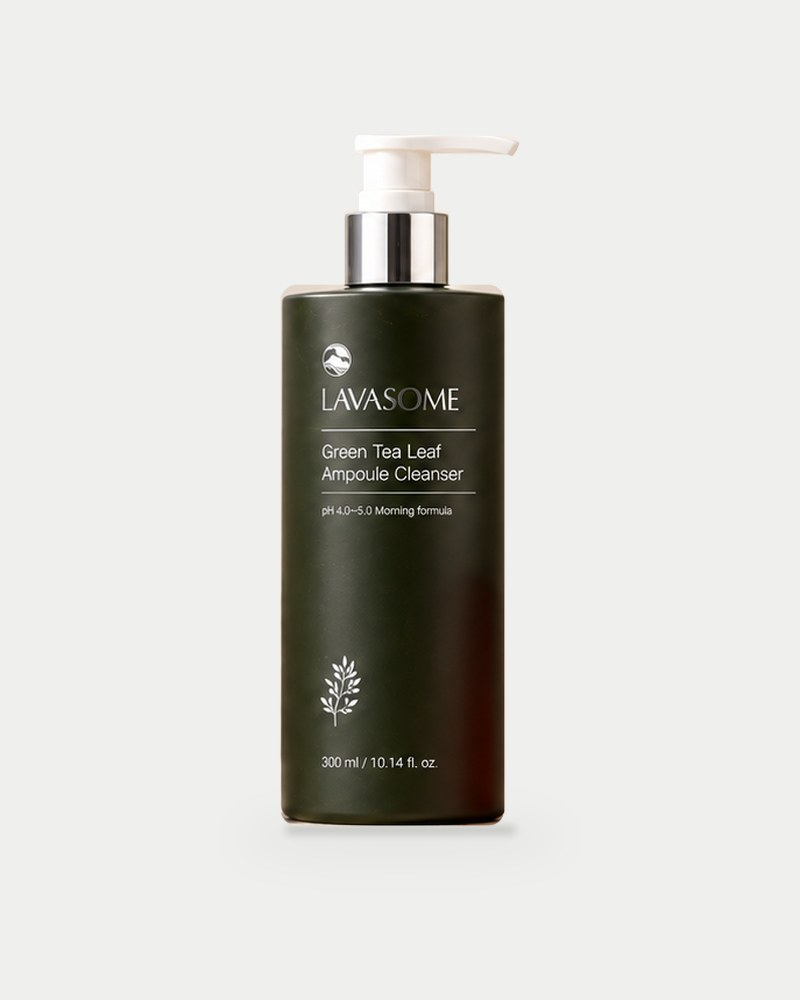
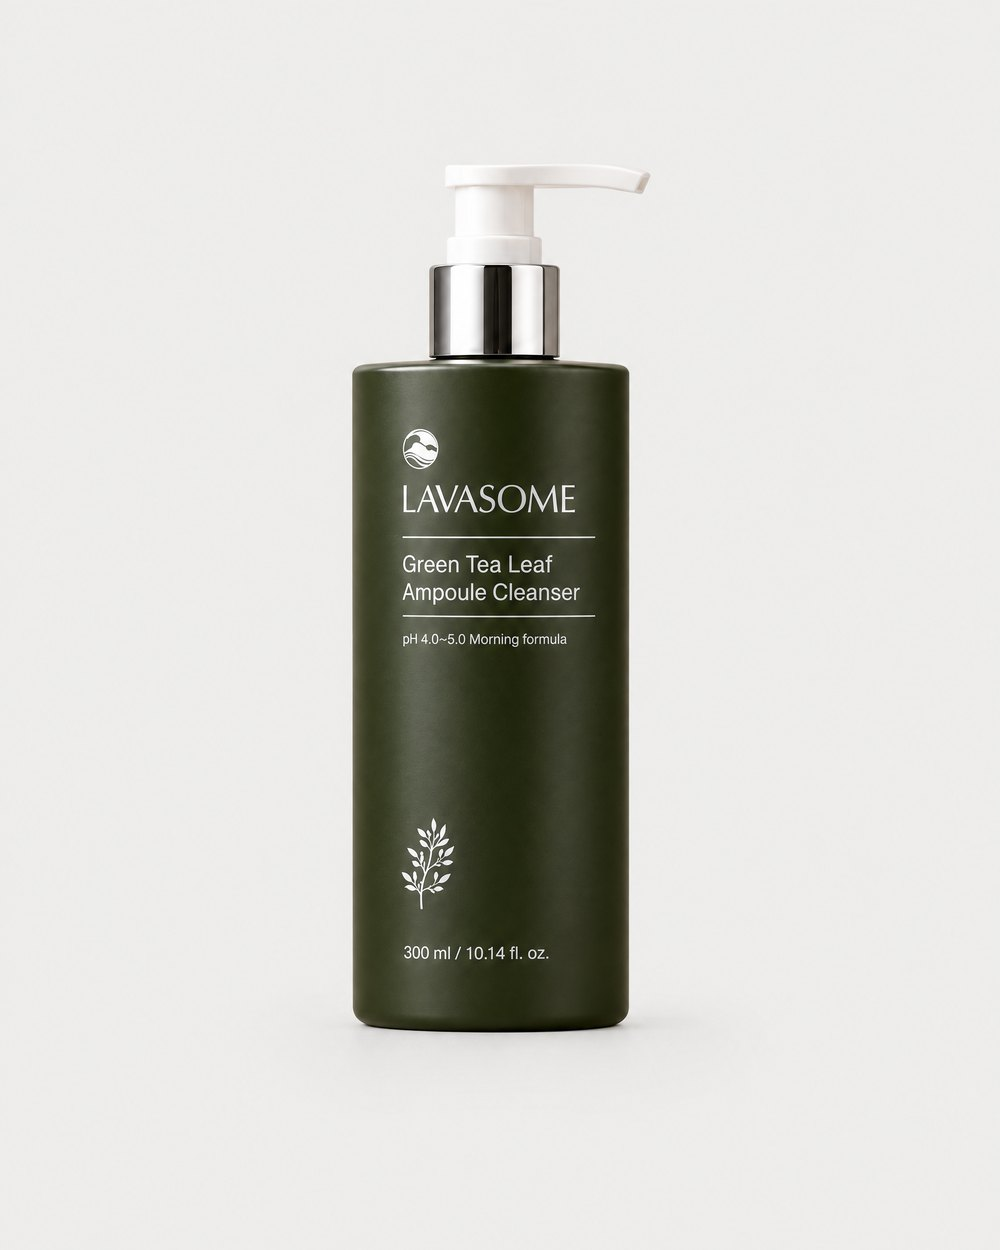
feat: 메인 배너 비타C · 제품 사진 7종을 Higgsfield 로 다시 생성
- 배너 2번: 실물 바이알을 참조로 장면째 다시 생성 — 합성 티 없이 빛·그림자가 장면과 맞음
- 제품 7종: 실사를 참조로 같은 옅은 그레이 스튜디오 바탕에서 생성(바탕 #EEEDEC 로 통일)
- 라벨 문구·숫자·로고는 원본 사진과 한 줄씩 대조해 확인
- incoming/(내려받은 원본 PNG)은 적용 후 삭제

Claude-Session: https://claude.ai/code/session_01DK3jspCr5FwTFxH3Ny7efn

diff --git a/products.html b/products.html
@@ -61,8 +61,9 @@
 <!-- ══ 전체 제품 ══
      홈의 "전체 제품 보기"와 메뉴 "제품 > 전체 제품"이 여기로 온다.
      각 카드의 id 는 홈 캐러셀·메인 배너의 "제품 보기" 링크(#vita-c-plus 등)와 맞춘다.
-     제품 사진(10.21 피드백 05·06): 실사(라인업 컷 · 비타C 바이알 단독컷)에서 오려
-        설화수처럼 옅은 그레이 바탕 하나로 맞췄다 — tools/product-cards.py.
+     제품 사진(10.21 피드백 05·06): 실사(라인업 컷 · 비타C 바이알 단독컷)를 참조로
+        같은 옅은 그레이 스튜디오 바탕에서 다시 촬영한 것처럼 생성했다(Higgsfield).
+        라벨 문구는 원본과 한 줄씩 대조해 확인. 실사만으로 만드는 예비 방법은 tools/product-cards.py.
         assets/img/products/<id>.jpg 를 교체하면 홈과 이 페이지가 함께 바뀝니다.
      바쿠치올 5K 는 미판매라 글루타티온 20K 로 바꿨다.
      "공식몰에서 보기"는 라바섬 공식몰(lavasome.co.kr) 상품 상세로 연결된다. -->

diff --git a/assets/css/home.css b/assets/css/home.css
@@ -142,8 +142,8 @@
 .pcar__shot {
   position: relative; margin: 0 0 22px;
   aspect-ratio: 4 / 5; overflow: hidden; border-radius: var(--r-m);
-  /* (10.21 피드백 05) 설화수처럼 옅은 그레이 — 사진 바탕(tools/product-cards.py BG)과 같은 값 */
-  background: #EFEFED;
+  /* (10.21 피드백 05) 설화수처럼 옅은 그레이 — 제품 사진 바탕과 같은 값 */
+  background: #EEEDEC;
 }
 .pcar__shot img {
   width: 100%; height: 100%; object-fit: cover;
@@ -505,7 +505,7 @@
 .prod { scroll-margin-top: 28px; }
 .prod__shot {
   position: relative; margin: 0 0 22px; aspect-ratio: 4 / 5;
-  overflow: hidden; border-radius: var(--r-m); background: #EFEFED;
+  overflow: hidden; border-radius: var(--r-m); background: #EEEDEC;
 }
 .prod__shot img { width: 100%; height: 100%; object-fit: cover; transition: transform .7s var(--ease); }
 @media (hover: hover) { .prod:hover .prod__shot img { transform: scale(1.04); } }

diff --git a/index.html b/index.html
@@ -111,7 +111,7 @@
         <!-- 피드백(2026.10.13): 순서 = 브랜드 → 메인 제품(누르면 공식몰 상품 페이지) →
              이벤트·할인(10월 세일, 신규회원 쿠폰).
              (10.21) 회사 소식(세계한상대회) 슬라이드는 빼고 브랜드 소식에서 보여 준다.
-             (10.21) 2번 바이알은 실물 사진으로 바꿨다 — tools/hero-vial.py
+             (10.21) 2번 바이알은 실물 바이알을 참조로 장면째 다시 생성(Higgsfield) — 라벨은 원본 대조
              (이전) 롤링 배너는 이벤트 · 프로모션 · 메인 제품 · 캠페인만.
              제품을 하나씩 소개하는 일은 바로 아래 Product Line Up 이 맡는다. -->
         <li class="mv__slide" aria-label="2/3 메인 제품">
